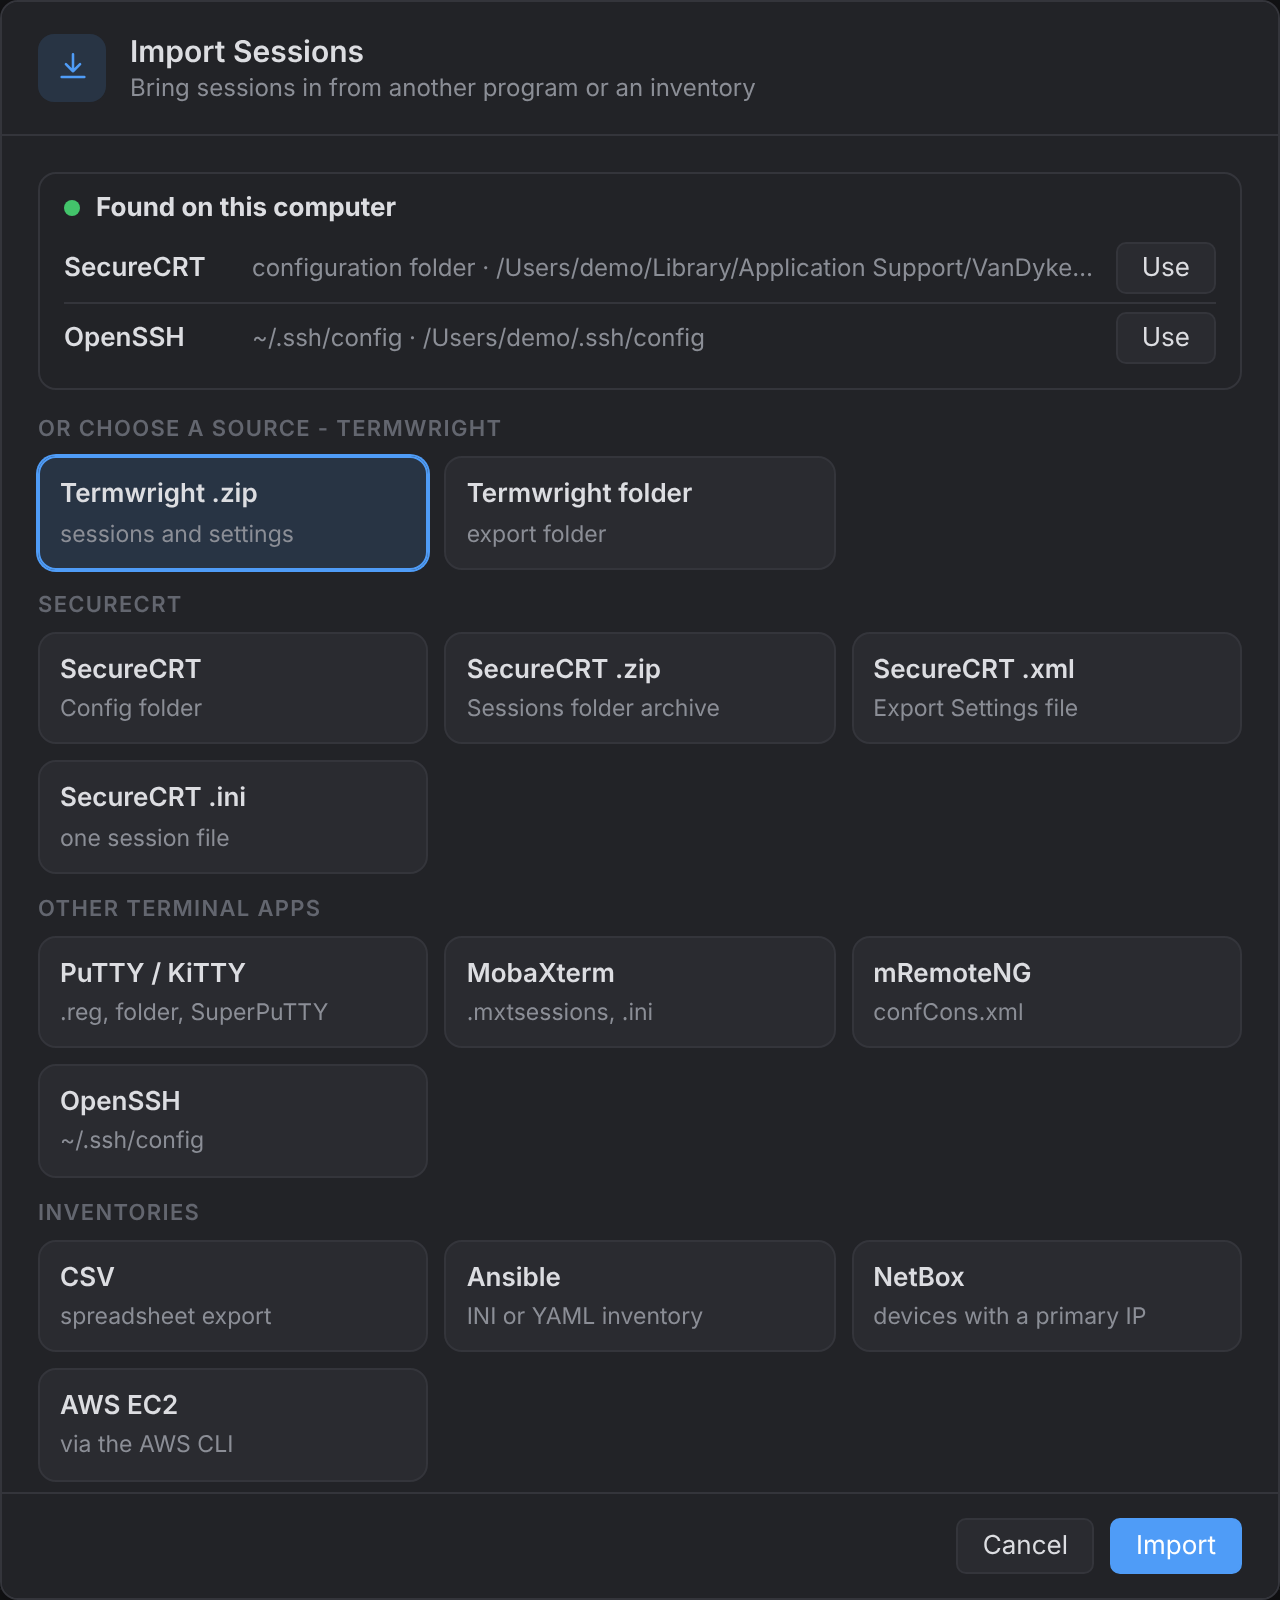
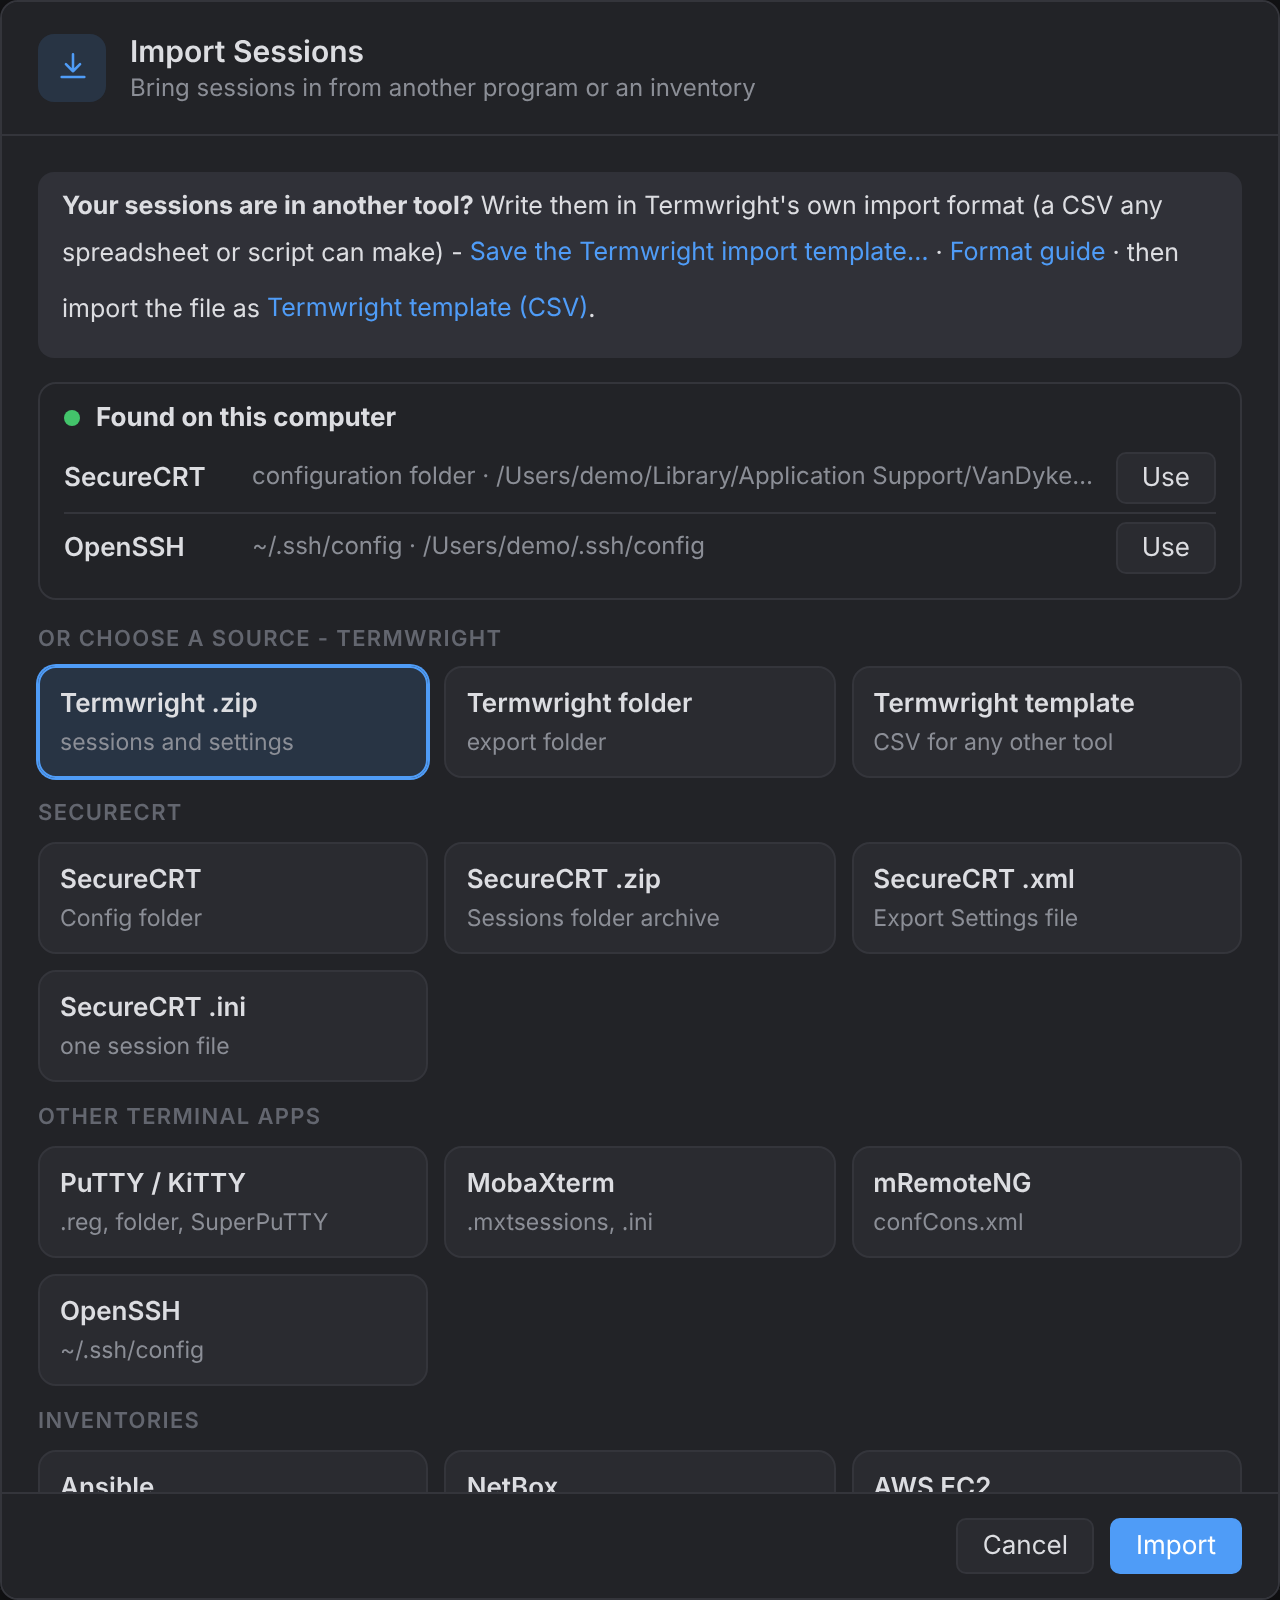
Import: the Termwright import template is the first thing in the dialog; CSV renamed Termwright template

diff --git a/frontend/src/app/dialogs/import-export.ts b/frontend/src/app/dialogs/import-export.ts
@@ -19,6 +19,10 @@ type Source = 'twzip' | 'twdir' | 'folder' | 'zip' | 'xml' | 'ini' | 'ssh' | 'pu
         <span class="mh-t">Import Sessions<span class="mh-s">Bring sessions in from another program or an inventory</span></span></div>
       <div class="modal-body">
         @if (!result()) {
+          <div class="tpl"><b>Your sessions are in another tool?</b> Write them in Termwright's own import format (a CSV any spreadsheet or script can make) -
+            <button type="button" class="link" (click)="saveTemplate()">Save the Termwright import template…</button> ·
+            <button type="button" class="link" (click)="backend.openURL(formatGuide)">Format guide</button> · then import the file as
+            <button type="button" class="link" (click)="source = 'csv'; pick('csv')">Termwright template (CSV)</button>.</div>
           @if (modern()) {
             @if (found().length) {
               <div class="found">
@@ -182,6 +186,7 @@ type Source = 'twzip' | 'twdir' | 'folder' | 'zip' | 'xml' | 'ini' | 'ssh' | 'pu
     </form>
   </div>`,
   styles: [`
+    .tpl { margin: 0 0 12px; padding: 9px 12px; border-radius: 8px; background: var(--hover, rgba(128,128,128,.12)); font-size: calc(12.5px * var(--ui-scale, 1)); line-height: 1.5; }
     .link { background: none; border: 0; padding: 0; color: var(--accent); cursor: pointer; font: inherit; }
     .src-groups { display: flex; flex-direction: column; gap: 10px; }
     .src-group { display: flex; flex-direction: column; gap: 5px; label { display: flex; gap: 8px; align-items: center; cursor: pointer; } }
@@ -231,7 +236,7 @@ export class ImportDialog {
       twzip: { t: 'Termwright .zip', s: 'sessions and settings' }, twdir: { t: 'Termwright folder', s: 'export folder' },
       folder: { t: 'SecureCRT', s: 'Config folder' }, zip: { t: 'SecureCRT .zip', s: 'Sessions folder archive' }, xml: { t: 'SecureCRT .xml', s: 'Export Settings file' },
       ini: { t: 'SecureCRT .ini', s: 'one session file' }, putty: { t: 'PuTTY / KiTTY', s: '.reg, folder, SuperPuTTY' }, moba: { t: 'MobaXterm', s: '.mxtsessions, .ini' }, mremoteng: { t: 'mRemoteNG', s: 'confCons.xml' },
-      ssh: { t: 'OpenSSH', s: '~/.ssh/config' }, csv: { t: 'CSV', s: 'spreadsheet export' }, ansible: { t: 'Ansible', s: 'INI or YAML inventory' },
+      ssh: { t: 'OpenSSH', s: '~/.ssh/config' }, csv: { t: 'Termwright template', s: 'CSV for any other tool' }, ansible: { t: 'Ansible', s: 'INI or YAML inventory' },
       netbox: { t: 'NetBox', s: 'devices with a primary IP' }, aws: { t: 'AWS EC2', s: 'via the AWS CLI' },
     };
     return c[v];
@@ -260,6 +265,7 @@ export class ImportDialog {
     { title: 'Termwright', items: [
       { v: 'twzip', label: 'Termwright export (.zip) - sessions and settings' },
       { v: 'twdir', label: 'Termwright export folder' },
+      { v: 'csv', label: 'Termwright import template (.csv) - sessions from any other tool, spreadsheet or inventory' },
     ] },
     { title: 'SecureCRT', items: [
       { v: 'folder', label: 'SecureCRT configuration folder (Config or Config/Sessions)' },
@@ -274,7 +280,6 @@ export class ImportDialog {
       { v: 'ssh', label: 'OpenSSH client config (~/.ssh/config)' },
     ] },
     { title: 'Inventories', items: [
-      { v: 'csv', label: 'CSV / spreadsheet export (.csv)' },
       { v: 'ansible', label: 'Ansible inventory (INI or YAML)' },
       { v: 'netbox', label: 'NetBox (devices with a primary IP)' },
       { v: 'aws', label: 'AWS EC2 instances (uses the AWS CLI)' },

diff --git a/CHANGELOG.md b/CHANGELOG.md
@@ -4,6 +4,8 @@ All notable changes to Termwright. Each release on GitHub shows its section of t
 
 ## Unreleased
 
+* **The Termwright import template is easy to find.** *Import Sessions* opens with a box *Your sessions are in another tool?* - *Save the Termwright import template…*, the *Format guide*, and the source **Termwright template (CSV)**, which now sits in the Termwright group instead of under Inventories.
+
 * **Moving, renaming or deleting a jump host asks about the sessions that use it.** A session is the jump host of other sessions (SSH, RDP and VNC) by its path, so moving it to another folder, renaming it or deleting it left them pointing at nothing. Now, after a **move or rename** (drag, cut/paste, *Rename*, *Edit Sessions*, or the session's own options), Termwright lists the sessions - and the folders whose default jump host it is - that use it and asks *Update them* or *Leave them*; for a **delete** it lists them and asks *Delete them too* or *Delete only the jump host* (a folder default is cleared). The questions are always asked, also when *Confirm before moving* is off. Undo of a move updates them back.
 
 * **A Wake-on-LAN session fills in its network from the IP address.** Type the device's IP address and the *Network* box shows where the magic packet will go (the network of this computer's interface on it, else the /24 around the address); change the mask when the network is different. A network you typed yourself is never overwritten. With only a network, the device is found by its MAC address after the wake (the address found is saved in the session).

diff --git a/docs/IMPORT_FORMAT.md b/docs/IMPORT_FORMAT.md
@@ -4,9 +4,9 @@ Termwright imports sessions from several tools (SecureCRT, PuTTY, SuperPuTTY, Mo
 `config`). It will not grow a new importer for every tool, because each one has to follow a file format that changes
 without notice. Instead, **this page says what Termwright accepts**: if your sessions are in any other tool, a
 spreadsheet or an inventory, write them in this format (a script of a few lines, or a spreadsheet) and import the
-result with **Import Sessions → CSV**.
+result with **Import Sessions → Termwright template (CSV)**.
 
-The easiest start is the template: **File → Import Sessions → CSV → *Save a template CSV…***, or
+The easiest start is the template: **File → Import Sessions → *Save the Termwright import template…*** (the first thing in the dialog), or
 [`examples/sessions-template.csv`](examples/sessions-template.csv). It has a session of every kind.
 
 ## CSV (the format to write)
